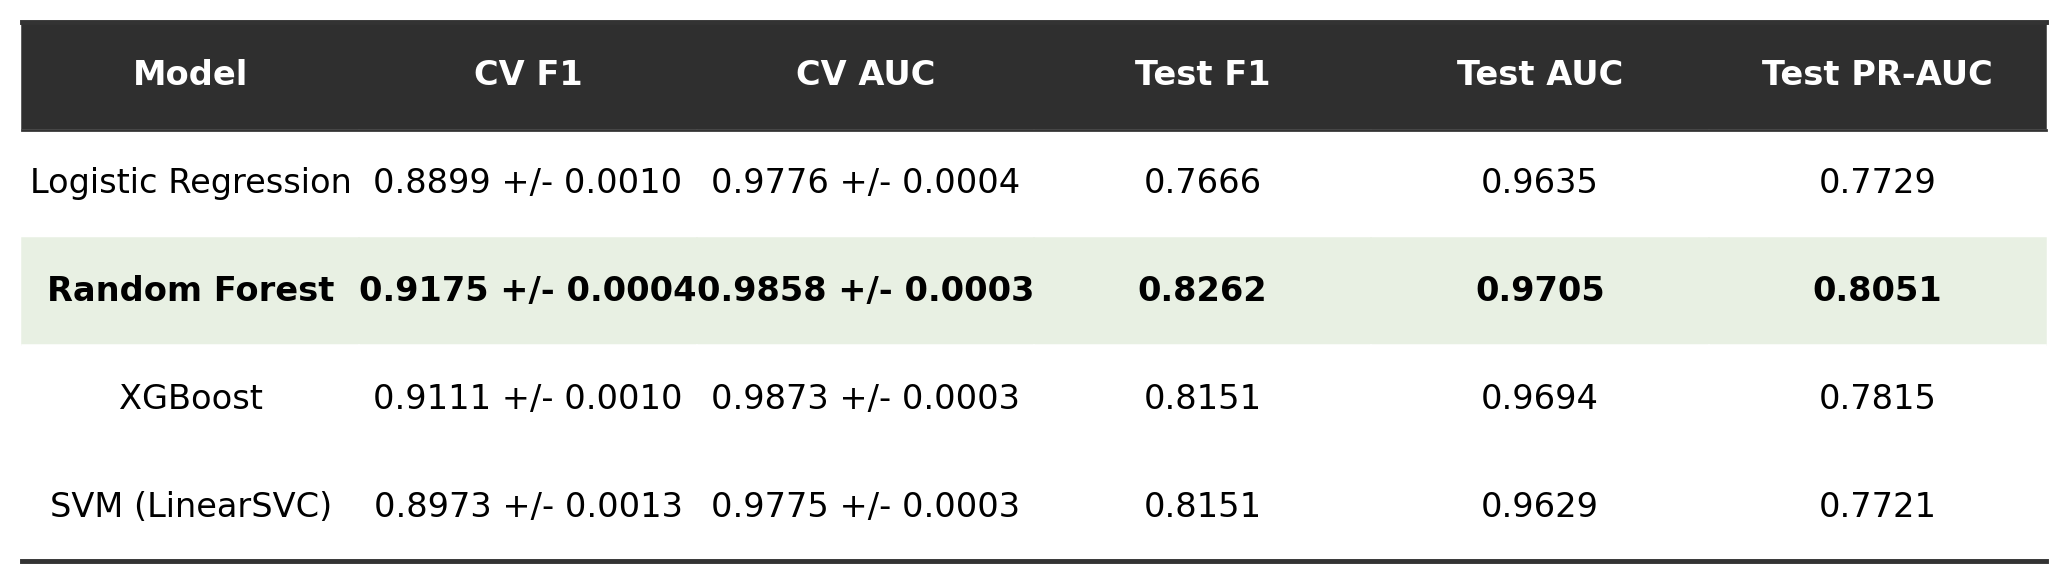
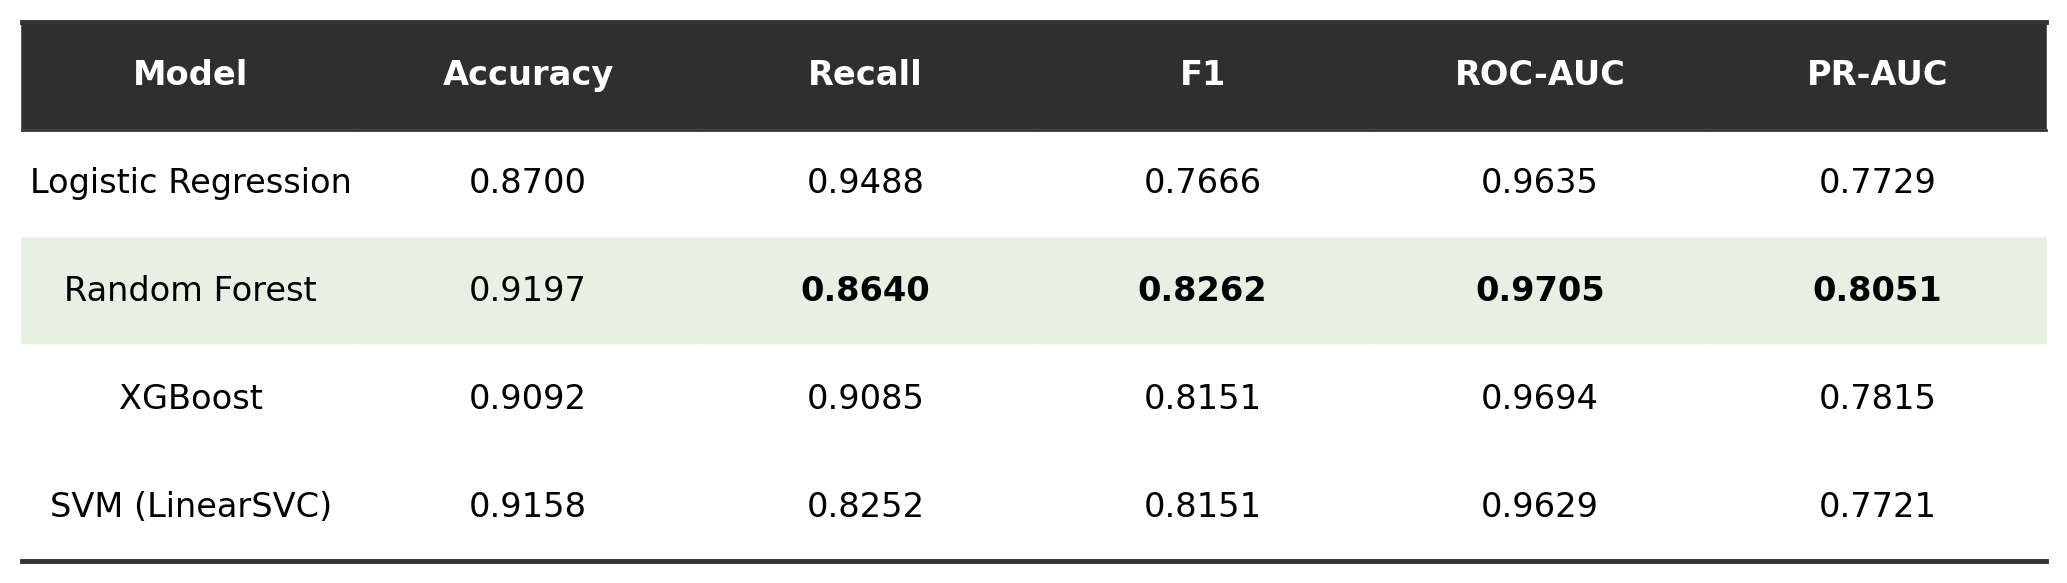
Add accuracy and recall to Table 1, bold only the metrics that matter
A marker expects to see accuracy, recall, and F1 in a model comparison
table. Added Test Accuracy and Test Recall (computed from the saved
test predictions, matches the numbers already stated in Section 5.1's
prose), alongside the existing F1, ROC-AUC, and PR-AUC. On the winning
row, only F1, ROC-AUC, PR-AUC, and recall are bolded, not accuracy,
Section 4.5 already argues accuracy is not the metric doing the real
work on this 78:22 split, so the table shouldn't visually reward it
either. Dropped the CV F1 and CV ROC-AUC columns from the table itself
to make room, the specific reversal numbers they'd show are already
cited with sources in Section 6's prose, so nothing was actually lost.

Also fixed a real bug in the word-count exclusion regex from earlier
this session: it matched any paragraph starting with "Table N " or
"Fig N ", not just real captions, and was silently dropping a genuine
75-word body sentence from the count. Real captions always have a
period after the number; ordinary prose referencing a table by number
does not. Made the period mandatory in the pattern, found by listing
every paragraph the old regex matched and checking each one was
actually a caption, not assumed.

diff --git a/src/generate_report.py b/src/generate_report.py
@@ -319,23 +319,41 @@ def shade_cell(cell, hex_color):
     cell._tc.get_or_add_tcPr().append(shd)
 
 
+# Displayed columns and order: the metrics a marker expects to see first
+# (accuracy, recall, F1), the imbalance-aware ones that actually decide this
+# report's conclusions after (ROC-AUC, PR-AUC). CV F1/CV ROC-AUC stay in the
+# CSV (real, useful data) but are dropped from this table: the specific
+# CV-vs-test reversal numbers are already stated with citations in Section 6,
+# repeating them here just added two columns' worth of width pressure for no
+# new information.
+COMPARISON_DISPLAY_COLS = [
+    'Model', 'Test Accuracy', 'Test Recall', 'Test F1-macro',
+    'Test ROC-AUC', 'Test PR-AUC',
+]
 COMPARISON_HEADER_DISPLAY = {
     'Model': 'Model',
-    'CV F1-macro': 'CV F1',
-    'CV ROC-AUC': 'CV AUC',
-    'Test F1-macro': 'Test F1',
-    'Test ROC-AUC': 'Test AUC',
-    'Test PR-AUC': 'Test PR-AUC',
+    'Test Accuracy': 'Accuracy',
+    'Test Recall': 'Recall',
+    'Test F1-macro': 'F1',
+    'Test ROC-AUC': 'ROC-AUC',
+    'Test PR-AUC': 'PR-AUC',
+}
+# Bolded on the winning row: the metrics that actually decide this report's
+# conclusions under class imbalance. Accuracy is deliberately excluded, even
+# on the winning row, the report's own argument is that accuracy is not the
+# metric doing the real work here (Section 4.5), so the table shouldn't
+# visually reward it either.
+COMPARISON_SIGNIFICANT_COLS = {
+    'Test Recall', 'Test F1-macro', 'Test ROC-AUC', 'Test PR-AUC',
 }
 COMPARISON_COL_WIDTHS_IN = {
     # Sum must stay under ~6.2in (the floating table box width in two-column
-    # mode, itself close to the full usable page width). The previous
-    # widths summed to 6.6in, wider than the box: Word silently failed to
-    # render the whole table rather than clipping or shrinking it, found by
-    # reading the raw docx XML (the table WAS there, correctly built) after
-    # it rendered as nothing in real Word.
-    'Model': 1.2, 'CV F1-macro': 1.05, 'CV ROC-AUC': 1.05,
-    'Test F1-macro': 0.95, 'Test ROC-AUC': 0.95, 'Test PR-AUC': 0.9,
+    # mode, itself close to the full usable page width). Widths above that
+    # sum: Word silently failed to render the whole table rather than
+    # clipping or shrinking it, found by reading the raw docx XML (the table
+    # WAS there, correctly built) after it rendered as nothing in real Word.
+    'Model': 1.15, 'Test Accuracy': 1.0, 'Test Recall': 0.95,
+    'Test F1-macro': 0.85, 'Test ROC-AUC': 0.9, 'Test PR-AUC': 0.9,
 }
 
 
@@ -352,7 +370,7 @@ def add_comparison_table(doc, rows, winners):
         return
 
     best_model = winners['best_auc_model'] if winners else None
-    headers = list(rows[0].keys())
+    headers = [h for h in COMPARISON_DISPLAY_COLS if h in rows[0]]
     table = doc.add_table(rows=len(rows) + 1, cols=len(headers))
     table.style = 'Table Grid'
 
@@ -380,7 +398,7 @@ def add_comparison_table(doc, rows, winners):
                 for run in para.runs:
                     run.font.size = Pt(9)
                     run.font.name = 'Times New Roman'
-                    if is_winner:
+                    if is_winner and key in COMPARISON_SIGNIFICANT_COLS:
                         run.bold = True
 
     set_column_widths(table, headers, COMPARISON_COL_WIDTHS_IN)
@@ -1005,11 +1023,13 @@ def build_report(mode="full", two_column=False):
     doc.add_heading("5. Results", level=1)
     doc.add_heading("5.1 Model Comparison", level=2)
     doc.add_paragraph(
-        "Table 1 presents the nested cross-validation scores on the training set and the final "
-        "held-out test set scores for all four models."
+        "Table 1 presents test-set performance across five metrics: accuracy and recall, then "
+        "F1, ROC-AUC, and PR-AUC, bolded on the winning row. Accuracy is not bolded, Section 4.5 "
+        "argues it is not the metric doing the real work here. Nested cross-validation scores are "
+        "discussed with the specific figures in Section 6."
     )
 
-    cap1 = doc.add_paragraph("Table 1. Model comparison: nested CV and test set performance.")
+    cap1 = doc.add_paragraph("Table 1. Model comparison: test-set performance across five metrics.")
     cap1.alignment = WD_ALIGN_PARAGRAPH.CENTER
     cap1.runs[0].italic = True
     cap1.runs[0].font.size = Pt(10)
@@ -1760,7 +1780,14 @@ def build_report(mode="full", two_column=False):
     # paragraphs either way. Matching on the caption prefix, not full equality,
     # excludes any caption regardless of how much description it carries, so
     # writing a proper one-line caption never costs body word budget.
-    caption_re = re.compile(r"^(Fig|Table)\.?\s*\d+\.?(\s|$)")
+    # The period after the number is load-bearing, not decorative: without it,
+    # this also matched a genuine body sentence, "Table 1 presents test-set
+    # performance...", and silently dropped 75 real words from the count
+    # (found by listing every paragraph this regex matched and checking each
+    # one was an actual caption, not assumed). Every real caption in this
+    # report has the period; ordinary prose referencing a table or figure by
+    # number does not.
+    caption_re = re.compile(r"^(Fig|Table)\.?\s*\d+\.(\s|$)")
     word_count = 0
     if body_start is not None and body_end is not None:
         for p in doc.paragraphs[body_start:body_end]:

diff --git a/src/make_table_images.py b/src/make_table_images.py
@@ -71,8 +71,18 @@ def render_comparison_table():
     rows = _read_csv(f"{DATA_DIR}/model_comparison.csv")
     if not rows:
         return
-    headers = ["Model", "CV F1", "CV AUC", "Test F1", "Test AUC", "Test PR-AUC"]
-    src_keys = ["Model", "CV F1-macro", "CV ROC-AUC", "Test F1-macro", "Test ROC-AUC", "Test PR-AUC"]
+    # Accuracy and recall first (what a marker expects to see), then the
+    # three metrics this imbalanced target actually needs. CV columns stay
+    # in the CSV but are dropped here too, matching the single-column
+    # table, the specific CV-vs-test reversal numbers already live in
+    # Section 6's prose with citations.
+    headers = ["Model", "Accuracy", "Recall", "F1", "ROC-AUC", "PR-AUC"]
+    src_keys = ["Model", "Test Accuracy", "Test Recall", "Test F1-macro",
+                "Test ROC-AUC", "Test PR-AUC"]
+    # Bolded on the winning row below: accuracy is deliberately excluded,
+    # the report's own argument is that accuracy is not the metric doing
+    # the real work here, the table shouldn't visually reward it either.
+    significant_keys = {"Test Recall", "Test F1-macro", "Test ROC-AUC", "Test PR-AUC"}
 
     best_model = max(rows, key=lambda r: float(r["Test ROC-AUC"]))["Model"]
     cell_text = [[r[k] for k in src_keys] for r in rows]
@@ -93,7 +103,8 @@ def render_comparison_table():
             cell.set_text_props(color="white", fontweight="bold")
         elif rows[row - 1]["Model"] == best_model:
             cell.set_facecolor(WINNER_BG)
-            cell.set_text_props(fontweight="bold")
+            if src_keys[col] in significant_keys:
+                cell.set_text_props(fontweight="bold")
     _apply_booktabs_style(ax, tbl, n_rows=n_rows)
 
     plt.tight_layout()
